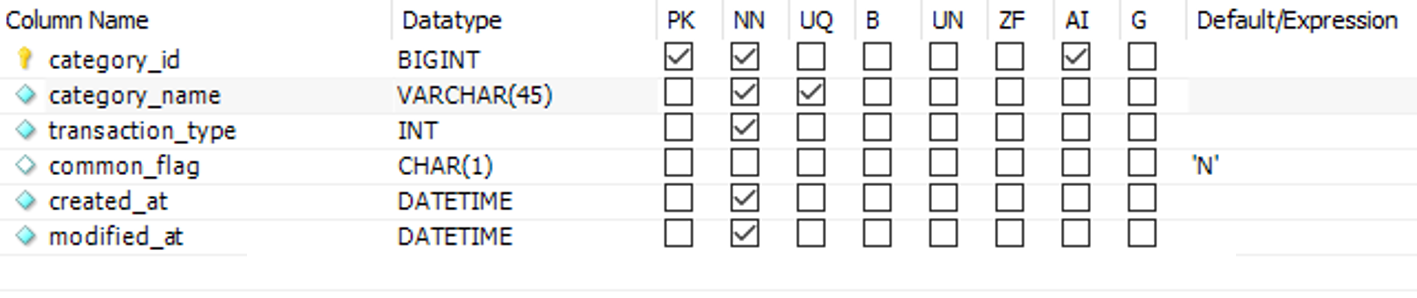
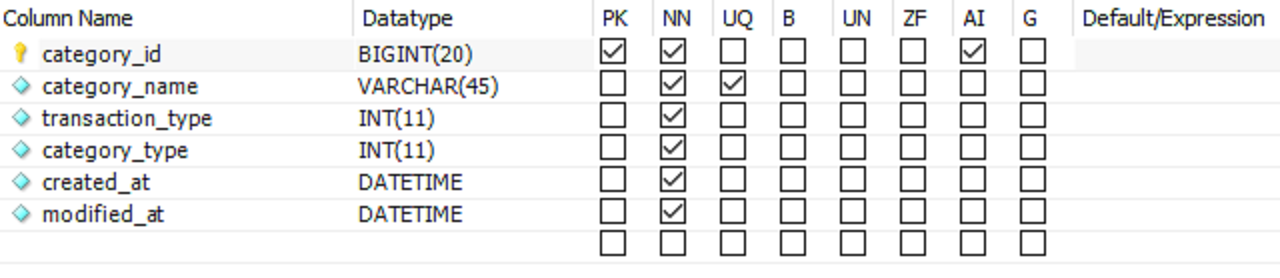
DB 스키마 수정

diff --git a/_posts/Project/2020-06-14-housekeeping-project-3.md b/_posts/Project/2020-06-14-housekeeping-project-3.md
@@ -24,7 +24,7 @@ tags: Toy-project Spring-boot Spring MySQL Database
 ![image](/post_assets/2020-06-14/tb_transaction.png)
 
 ### tb_category
-카테고리는 거래 출처 종류를 나타낸다. 예를 들어 월급, 식비, 교통, 편의점 등이 있다. 서비스를 사용하는 모든 사용자에게 공통으로 관리되는 카테고리와 사용자가 직접 추가할 수 있는 카테고리가 있다. 이를 분류하기 위해 `common_flag` 필드를 사용했다. 해당 값이 `true`면 모두 사용할 수 있는 공통 카테고리가 된다.
+카테고리는 거래 출처 종류를 나타낸다. 예를 들어 월급, 식비, 교통, 편의점 등이 있다. 서비스를 사용하는 모든 사용자에게 공통으로 관리되는 카테고리와 사용자가 직접 추가할 수 있는 카테고리가 있다. 이를 분류하기 위해 `category_type` 필드를 사용했다. 해당 값에 따라 기본 카테고리/커스텀 카테고리로 구분한다.
 
 ![image](/post_assets/2020-06-14/tb_category.png)
 
@@ -36,7 +36,7 @@ tags: Toy-project Spring-boot Spring MySQL Database
 ### ERD(Entity-Relationship Diagram)
 
 * 사용자(tb_user)는 여러 개의 거래 내역(tb_transaction)을 가질 수 있다.
-* 한 개의 거래 내역(tb_transaction)에는 하나의 카테고리(tb_category)가 존재한다.
-* 사용자(tb_user)는 여러 개의 커스텀 카테고리(tb_category)를 가질 수 있으며, 이름이 동일한 커스텀 카테고리는 여러 유저에 의해 사용될 수 있다.
+* 한 개의 거래 내역(tb_transaction)에는 하나의 카테고리(tb_category)가 사용된다.
+* 사용자(tb_user)는 여러 개의 카테고리(tb_category)를 사용할 수 있으며, 이름이 동일한 카테고리는 여러 유저에 의해 사용될 수 있다.
 
 ![image](/post_assets/2020-06-14/erd.png)
